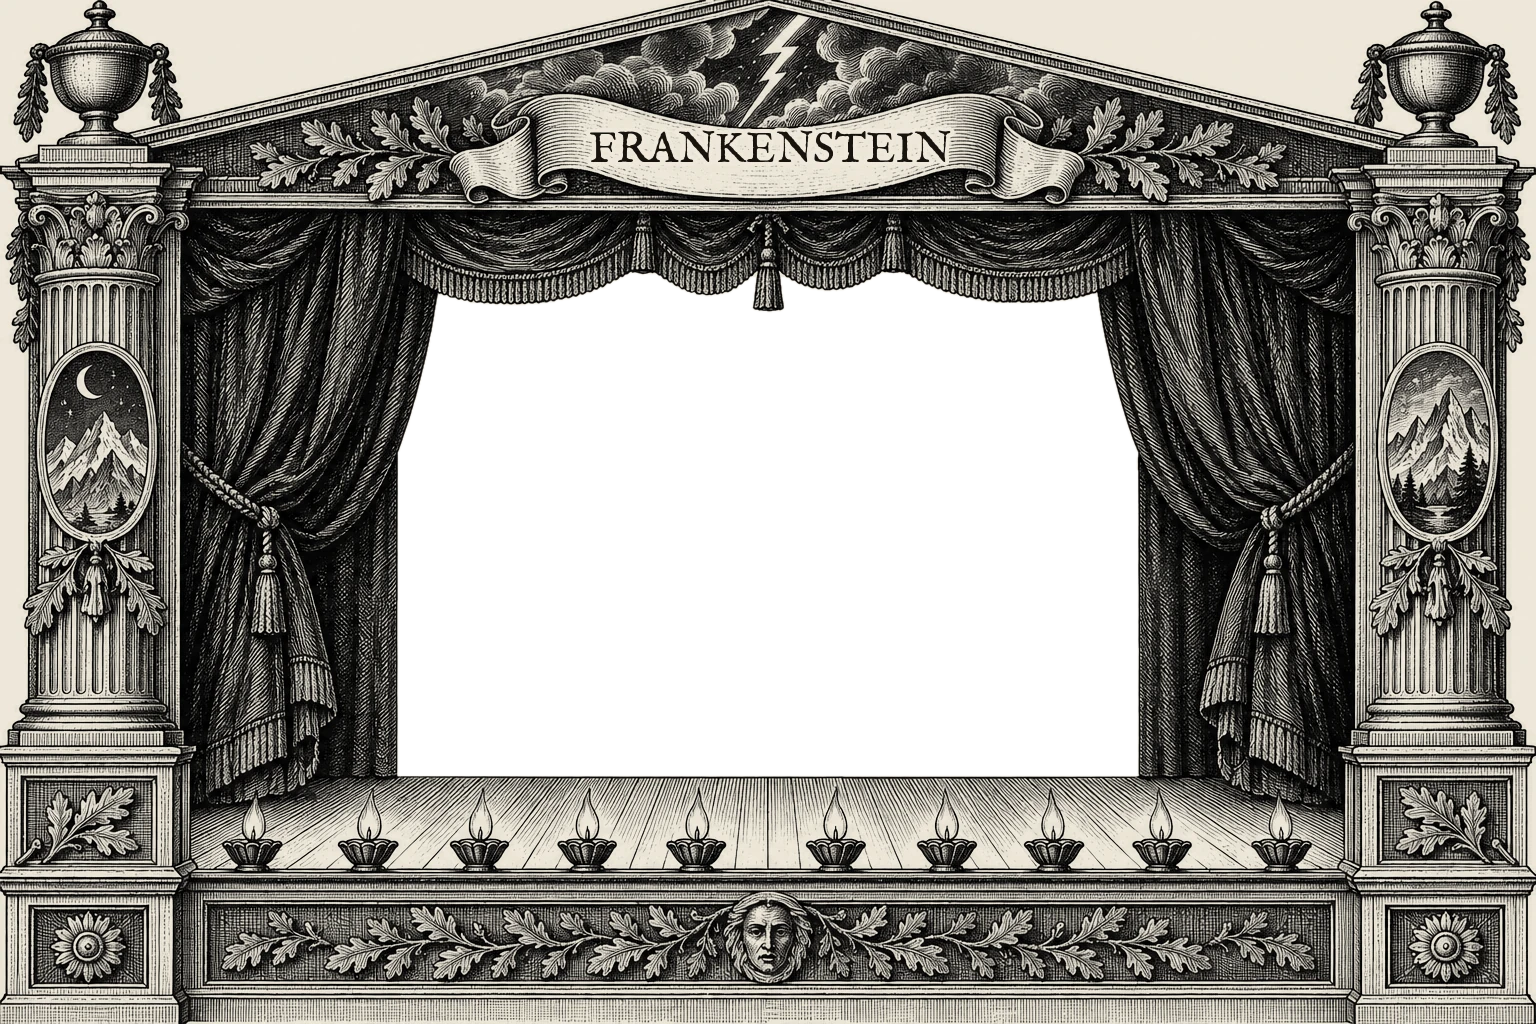
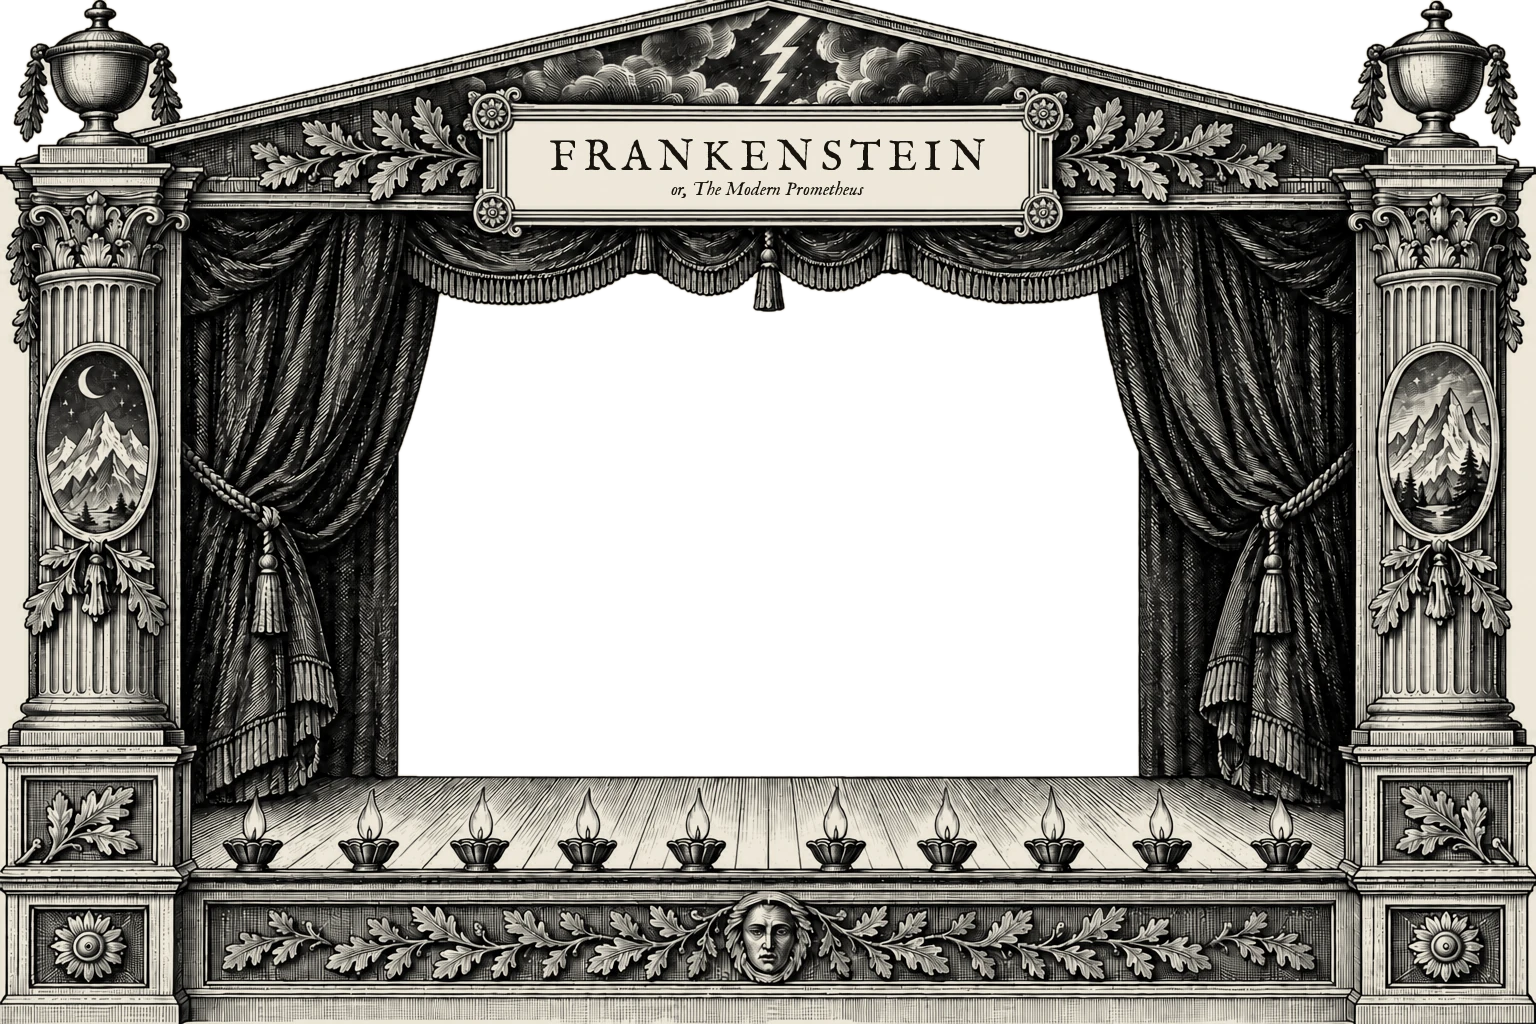
Theatre: one arch (the hall redrawn without its own stage, the toy front stands in it on a paper ground); the toy front's sign lettered FRANKENSTEIN, or, The Modern Prometheus
Art from the model sheets thread (claude/project-thread-jvow95 71eade4).

Claude-Session: https://claude.ai/code/session_015J9f2YVWE3eqxvLQrkHQmj

diff --git a/src/theatre.js b/src/theatre.js
@@ -110,8 +110,8 @@ function seatsArt() {
 }
 
 // The AI theatre (tools/theatre_art.py): the openings cut out of each drawing, in its pixels.
-const FRONT_OPEN = { x0: 398, x1: 1137, y0: 273, y1: 775 }; // theatre/proscenium, 1536 x 1024
-const HOUSE_OPEN = { x0: 492, x1: 1043, y0: 417, y1: 796 }; // theatre/house, 1536 x 1024
+const FRONT_OPEN = { x0: 399, x1: 1137, y0: 274, y1: 775 }; // theatre/proscenium, 1536 x 1024
+const HOUSE_OPEN = { x0: 432, x1: 1100, y0: 197, y1: 885 }; // theatre/house: its empty middle, where the toy theatre stands
 
 // Builds the theatre into a scene's group. title/sub: lettered on the toy front (the drawn one;
 // the AI front has the title lettered on its banner by tools/theatre_art.py).
@@ -125,20 +125,31 @@ export function buildTheatre(scene, ai = {}, { title = 'FRANKENSTEIN', sub = '' 
     const k = 3.4 / K / (FRONT_OPEN.y1 - FRONT_OPEN.y0); // metres per pixel (before K)
     const W = 1536 * k, H = 1024 * k, y0 = -(1024 - FRONT_OPEN.y1) * k;
     const pros = paperFlat(ai['theatre/proscenium'].tex, W, H, { edge: false });
-    pros.position.set((768 - (FRONT_OPEN.x0 + FRONT_OPEN.x1) / 2) * k, y0, PROS.z);
+    const px0 = (768 - (FRONT_OPEN.x0 + FRONT_OPEN.x1) / 2) * k;
+    pros.position.set(px0, y0, PROS.z);
     group.add(pros);
-    // The theatre round it: the auditorium, its own stage opening framing the toy front, and in
-    // the foreground the row in front of our seat, the audience from behind.
-    const k2 = H * 0.98 / (HOUSE_OPEN.y1 - HOUSE_OPEN.y0);
+    // The hall round it has no stage arch of its own (owner, 2026-10-16: one arch, not two): the
+    // toy front stands in its empty middle, just filling its width, on a plain paper ground with
+    // a hole for the toy stage's opening.
+    const k2 = W * 1.03 / (HOUSE_OPEN.x1 - HOUSE_OPEN.x0);
     const house = paperFlat(ai['theatre/house'].tex, 1536 * k2, 1024 * k2, { edge: false });
-    house.position.set((768 - (HOUSE_OPEN.x0 + HOUSE_OPEN.x1) / 2) * k2, y0 - (1024 - HOUSE_OPEN.y1) * k2, PROS.z + 0.1);
+    const hy = y0 + 0.15 - (1024 - HOUSE_OPEN.y1) * k2; // the toy front's foot just below the stalls' top
+    house.position.set((768 - (HOUSE_OPEN.x0 + HOUSE_OPEN.x1) / 2) * k2, hy, PROS.z + 0.1);
+    const hole = { x0: (HOUSE_OPEN.x0 - 768) * k2 - 0.2, x1: (HOUSE_OPEN.x1 - 768) * k2 + 0.2, y0: hy + (1024 - HOUSE_OPEN.y1) * k2 - 0.2, y1: hy + (1024 - HOUSE_OPEN.y0) * k2 + 0.2 };
+    const op = { x0: px0 + (FRONT_OPEN.x0 - 768) * k, x1: px0 + (FRONT_OPEN.x1 - 768) * k, y0: y0 + (1024 - FRONT_OPEN.y1) * k, y1: y0 + (1024 - FRONT_OPEN.y0) * k };
+    const shape = new THREE.Shape([new THREE.Vector2(hole.x0, hole.y0), new THREE.Vector2(hole.x1, hole.y0), new THREE.Vector2(hole.x1, hole.y1), new THREE.Vector2(hole.x0, hole.y1)]);
+    shape.holes.push(new THREE.Path([new THREE.Vector2(op.x0, op.y0), new THREE.Vector2(op.x0, op.y1), new THREE.Vector2(op.x1, op.y1), new THREE.Vector2(op.x1, op.y0)]));
+    const ground = new THREE.Mesh(new THREE.ShapeGeometry(shape), new THREE.MeshBasicMaterial({ color: '#efe9da' }));
+    ground.position.z = PROS.z + 0.05; group.add(ground);
     const sa = ai['theatre/seats'].aspect ?? 1500 / 769, seatsW = 5.2, seatsH = seatsW / sa;
     const seats = paperFlat(ai['theatre/seats'].tex, seatsW, seatsH, { edge: false });
     seats.position.set(0, 1.5 - seatsH, 14.2); // hat-tops at the stage floor as seen from the seat, so the stage shows over them
     // The same row again at each end (mirrored), for wide and tall screens.
     const more = [-1, 1].map((d) => { const m = paperFlat(ai['theatre/seats'].tex, seatsW, seatsH, { edge: false }); m.scale.x = -1; m.position.set(d * seatsW, seats.position.y, 14.2); return m; });
     // Drawn over the set (and only ever seen from the audience's side).
-    overSet(house, 50); overSet(seats, 60); more.forEach((m) => overSet(m, 60));
+    // All drawn over the set, in this order (only ever seen from the audience's side; from the
+    // stage the ground's back face is culled).
+    overSet(ground, 40); overSet(pros, 45); overSet(house, 50); overSet(seats, 60); more.forEach((m) => overSet(m, 60));
     group.add(house, seats, ...more);
     return { pros, house, seats };
   }

diff --git a/tools/theatre_art.py b/tools/theatre_art.py
@@ -2,7 +2,7 @@
 
 theatre/proscenium and theatre/house: paper-tinted; the stage opening (flood-filled from its
 centre) made transparent, everything else opaque. The title is lettered on the proscenium's blank
-banner here (AI lettering is unreliable), in the game's font. Prints each opening in pixels, for
+blank sign here (AI lettering is unreliable), in the game's font. Prints each opening in pixels, for
 src/theatre.js. theatre/seats is cut out from white by the normal approve path already.
 
 Usage: python3 tools/theatre_art.py
@@ -22,29 +22,39 @@ def region(g, seed):
     return hole, (xs.min(), ys.min(), xs.max(), ys.max())
 
 
-BANNER = (540, 122, 1000, 178)  # the banner's flat middle, source pixels (it is lightly hatched, not blank)
-
-
-def cut(name, seed, title=None):
+def cut(name, seed, title=None, sign_seed=None, corners=()):
     src = Image.open(f"source/ai/theatre/{name}.png").convert("L")
     g = np.asarray(src, np.float32)
     hole, box = region(g, seed)
     print(f"{name}: opening x {box[0]}-{box[2]}, y {box[1]}-{box[3]} of {src.size}")
+    for c in corners:  # plain paper outside the drawing (the toy front's top corners), cut away too
+        if g[c[1], c[0]] > 225: hole = hole | region(g, c)[0]
     alpha = Image.fromarray(((~hole) * 255).astype(np.uint8)).filter(ImageFilter.GaussianBlur(0.8))
     rgb = Image.fromarray((g[..., None] / 255 * PAPER).astype(np.uint8), "RGB")
     if title:
-        x0, y0, x1, y1 = BANNER
+        # The blank cartouche (flood-filled from its centre): the title spaced out on one line,
+        # the subtitle in italic beneath, both centred in it.
+        _, (x0, y0, x1, y1) = region(g, sign_seed)
+        print(f"{name}: sign x {x0}-{x1}, y {y0}-{y1}")
         d = ImageDraw.Draw(rgb)
-        size = 44
-        font = ImageFont.truetype("public/fonts/IMFeENrm28P.ttf", size)
-        while d.textlength(title, font=font) > (x1 - x0) * 0.8 and size > 12:
-            size -= 1; font = ImageFont.truetype("public/fonts/IMFeENrm28P.ttf", size)
-        # A paper halo keeps the letters clear of the hatching.
-        d.text(((x0 + x1) / 2, (y0 + y1) / 2), title, font=font, fill=INK, anchor="mm", stroke_width=4, stroke_fill=tuple(int(v) for v in PAPER))
+        main, sub = title
+        def spaced(text, font, track):
+            return sum(d.textlength(c, font=font) for c in text) + track * (len(text) - 1)
+        size = 64
+        while True:
+            font = ImageFont.truetype("public/fonts/IMFeENrm28P.ttf", size); track = size * 0.18
+            if spaced(main, font, track) <= (x1 - x0) * 0.86 and size * 1.85 <= (y1 - y0) or size < 14: break
+            size -= 1
+        cy = y0 + (y1 - y0) * 0.42
+        x = (x0 + x1) / 2 - spaced(main, font, track) / 2
+        for c in main:
+            d.text((x, cy), c, font=font, fill=INK, anchor="lm"); x += d.textlength(c, font=font) + track
+        it = ImageFont.truetype("public/fonts/IMFeENit28P.ttf", round(size * 0.45))
+        d.text(((x0 + x1) / 2, y0 + (y1 - y0) * 0.78), sub, font=it, fill=INK, anchor="mm")
     out = rgb.convert("RGBA"); out.putalpha(alpha)
     out.save(f"public/art/ai/theatre/{name}.webp", quality=90, method=6)
 
 
 if __name__ == "__main__":
-    cut("proscenium", (768, 480), title="FRANKENSTEIN")
-    cut("house", (768, 600))
+    cut("proscenium", (768, 480), title=("FRANKENSTEIN", "or, The Modern Prometheus"), sign_seed=(768, 160), corners=((4, 4), (1531, 4), (180, 40), (1356, 40), (300, 60), (1236, 60)))
+    cut("house", (768, 535))
